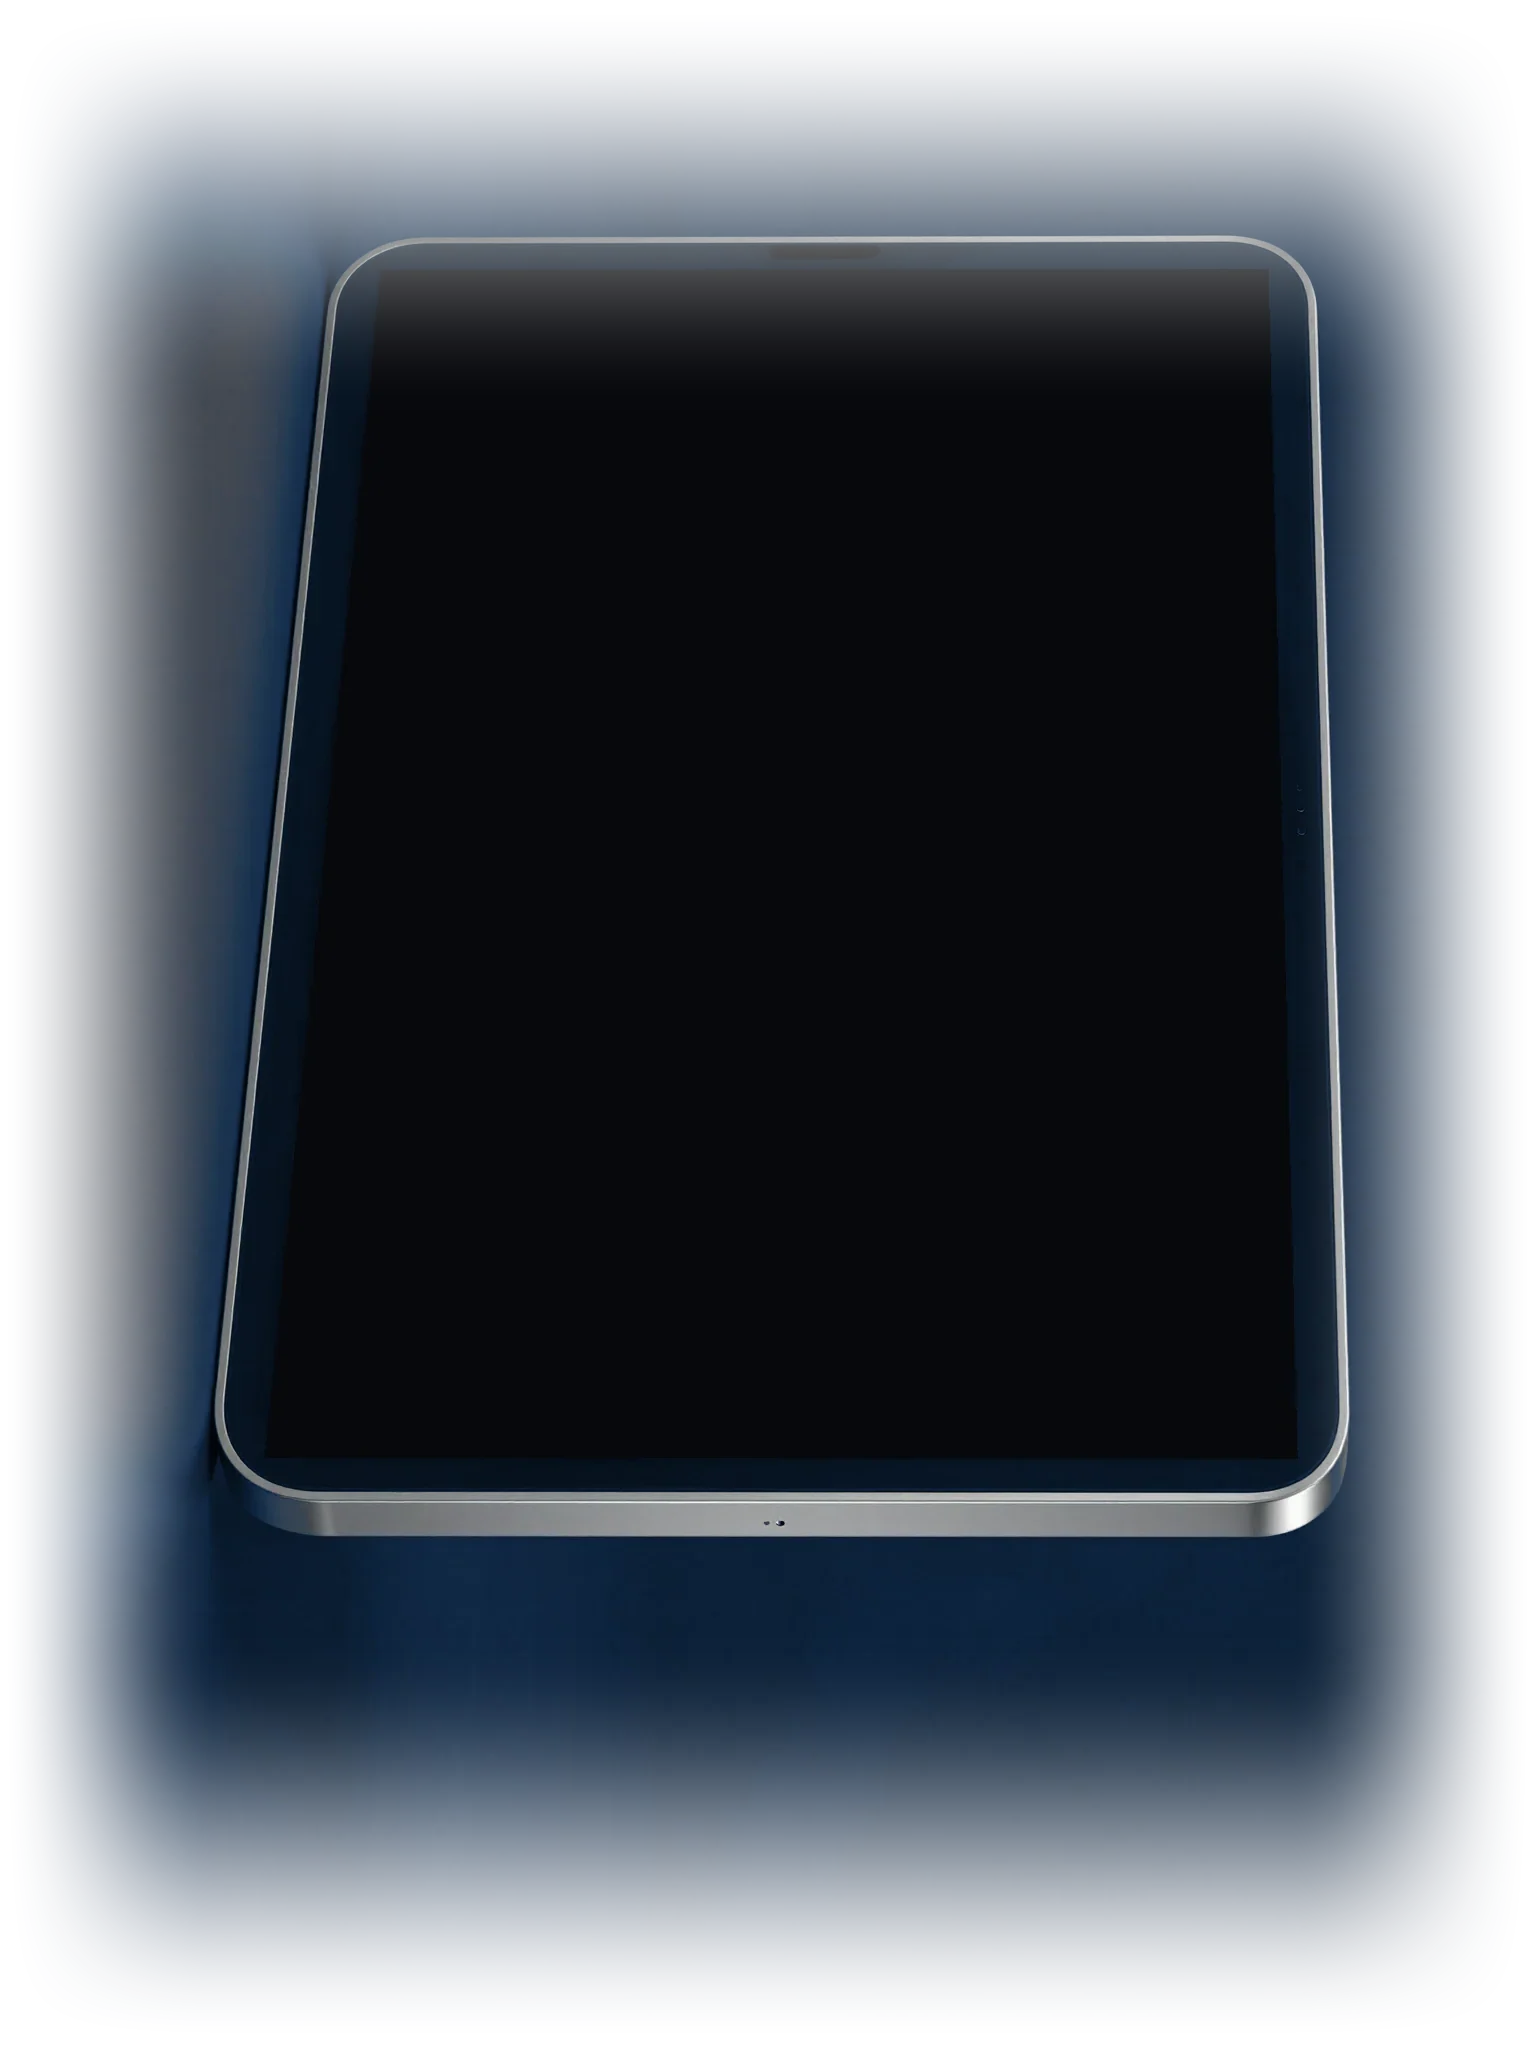
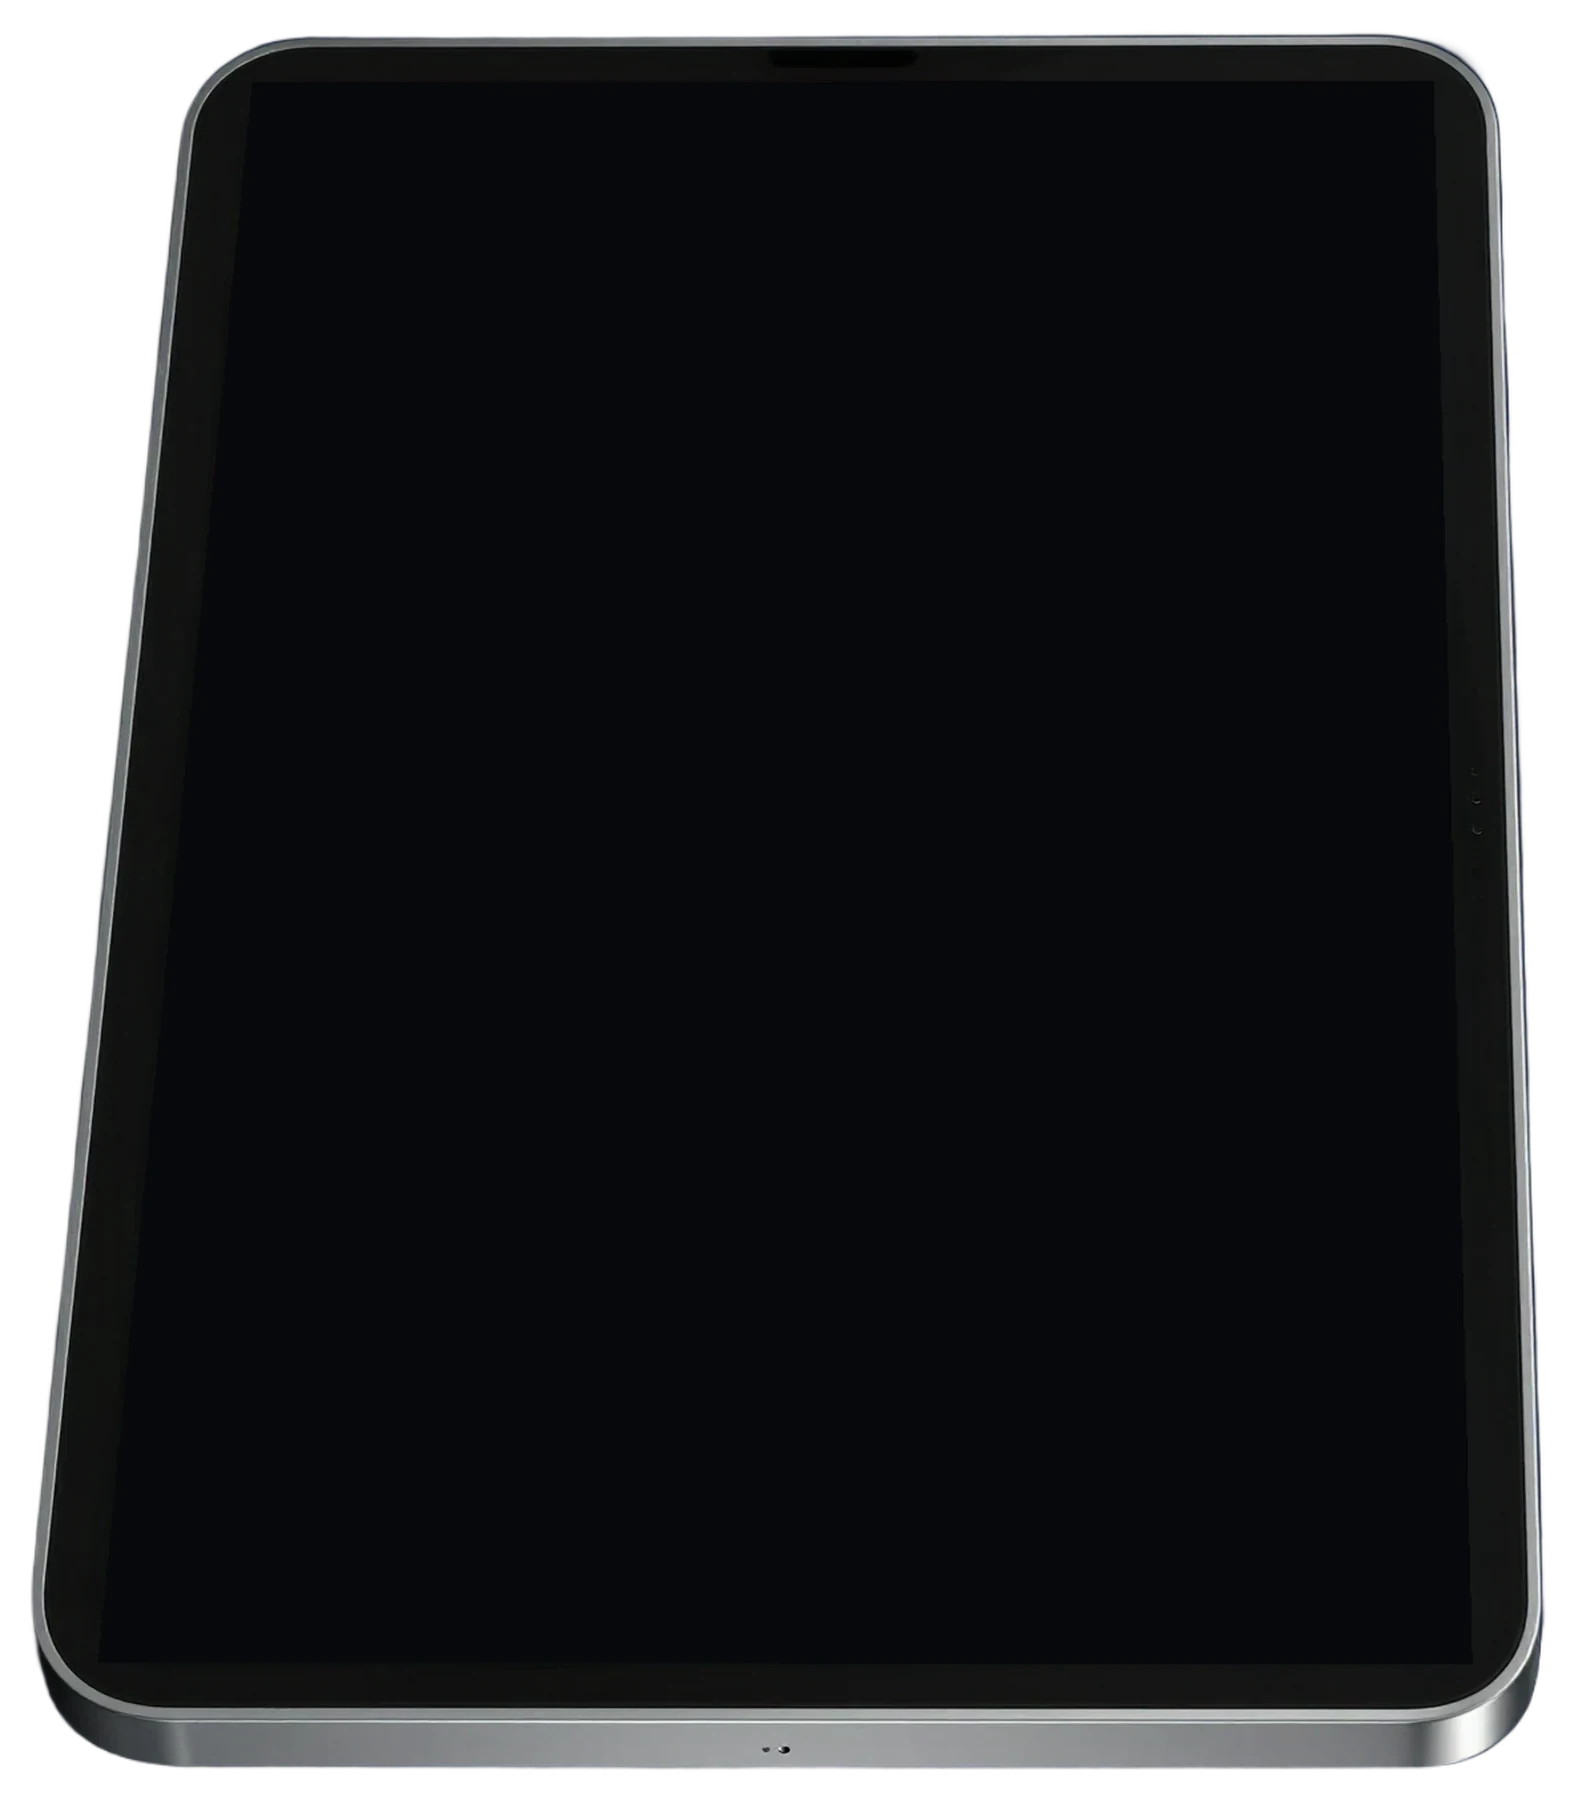
Propuesta: demos sin marco, el aparato se apoya directo en la página
- Notebook e iPad recortados sin fondo (Higgsfield · remove_background):
  funcionan en tema claro y oscuro, con sombra de apoyo.
- El recuadro del demo pierde fondo, borde, brillo y lente; los bordes
  del lienzo se desvanecen para que el acercamiento no deje un corte.
- preparar.py acepta el recorte y entrega tamaño, esquinas y caja.

Claude-Session: https://claude.ai/code/session_01HuUSFPipRjyUHnabTn6mBT

diff --git a/propuesta/index.html b/propuesta/index.html
@@ -2137,7 +2137,8 @@ body:not(.i3-inicio) .i3-vineta{background:radial-gradient(ellipse 58% 70% at 50
 /* Propuesta · aparato fotográfico compartido por los demos (motor de tarjetas y "Ver en acción" del V1).
    El aparato es el del visitante: notebook en computador, tablet en iPad/tablet (horizontal o vertical, según
    cómo la tenga). Fotos de estudio generadas con IA (Higgsfield · Z Image), en propuesta/img/, con la
-   pantalla en negro, sin reflejos verdes, fondo de marca y bordes difuminados (fuente/preparar.py y quad.py).
+   pantalla en negro, sin reflejos verdes y recortadas sin fondo (Higgsfield · remove_background), para que el
+   aparato se apoye directo en la página (fuente/preparar.py y quad.py).
    La pantalla de la foto está en perspectiva: una homografía lleva el plano de la pantalla (x, y en unidades
    del demo) a sus cuatro esquinas en la foto, y así lo que se dibuja en ella queda pegado al vidrio.
    En celular (y en una ventana angosta de computador) no hay aparato: la ventana va de frente y llena el
@@ -2146,12 +2147,12 @@ window.alFoto = (function(){
   // q: esquinas de la pantalla (sup-izq, sup-der, inf-der, inf-izq, px de la foto) · caja: el aparato completo, para encuadrar
   // prop: ancho/alto de la pantalla real · radio: esquinas redondeadas de la pantalla (fracción del ancho)
   var FOTOS = {
-    notebook: { src: 'img/notebook.webp', w: 2048, h: 1536, prop: 1.6, radio: 0.008,
-      q: [[441.5, 394.1], [1438.0, 433.9], [1485.4, 1040.3], [460.0, 1063.1]], caja: [410, 346, 1933, 1280] },
-    tablet: { src: 'img/tablet.webp', w: 2048, h: 1536, prop: 1.43, radio: 0.025,
-      q: [[273.0, 271.5], [1454.6, 242.3], [1453.0, 1266.9], [274.5, 1151.6]], caja: [236, 184, 1536, 1318] },
-    tabletV: { src: 'img/tablet_v.webp', w: 1536, h: 2048, prop: 0.7, radio: 0.035,   // la misma foto, girada
-      q: [[384.4, 274.5], [1264.5, 273.0], [1293.7, 1454.6], [269.1, 1453.0]], caja: [218, 236, 1352, 1536] } };
+    notebook: { src: 'img/notebook.webp', w: 1800, h: 1111, prop: 1.6, radio: 0.008,
+      q: [[61.4, 73.6], [1207.0, 119.5], [1261.3, 816.7], [82.9, 842.5]], caja: [27.6, 27.6, 1772.4, 1083.9] },
+    tablet: { src: 'img/tablet.webp', w: 1800, h: 1578, prop: 1.43, radio: 0.025,
+      q: [[86.5, 149.7], [1658.4, 110.8], [1656.3, 1473.9], [88.5, 1320.5]], caja: [31.9, 31.9, 1768.1, 1545.9] },
+    tabletV: { src: 'img/tablet_v.webp', w: 1578, h: 1800, prop: 0.7, radio: 0.035,   // la misma foto, girada
+      q: [[257.5, 88.5], [1428.3, 86.5], [1467.2, 1658.4], [104.1, 1656.3]], caja: [32.1, 31.9, 1546.1, 1768.1] } };
   // ¿qué aparato tiene el visitante? (iPadOS se presenta como Mac: se distingue por la pantalla táctil)
   function equipo(){
     var tactil = navigator.maxTouchPoints > 0 && window.matchMedia && matchMedia('(pointer: coarse)').matches;
@@ -2227,6 +2228,11 @@ window.alFoto = (function(){
       var l = c.createLinearGradient(0, 0, w, h); l.addColorStop(0, 'rgba(255,255,255,.07)'); l.addColorStop(0.38, 'rgba(255,255,255,0)'); l.addColorStop(0.5, 'rgba(255,255,255,.06)'); l.addColorStop(0.62, 'rgba(255,255,255,0)'); c.fillStyle = l; c.fillRect(0, 0, w, h); })), 0.06, 30);
     var a = W(FOTO.caja[0], FOTO.caja[1]), b = W(FOTO.caja[2], FOTO.caja[3]);
     u.caja = { x: (a[0] + b[0]) / 2, y: (a[1] + b[1]) / 2, w: b[0] - a[0], h: a[1] - b[1] };
+    // sombra de apoyo: el aparato descansa sobre la página
+    var piso = new T.Mesh(new T.PlaneGeometry(u.caja.w * 1.05, u.caja.h * 0.16), new MB({ transparent: true, depthWrite: false, toneMapped: false, map: lienzo(T, 256, 64, function(c, w, h){
+      var r = c.createRadialGradient(w / 2, h / 2, 0, w / 2, h / 2, w / 2); r.addColorStop(0, 'rgba(0,6,16,.55)'); r.addColorStop(0.6, 'rgba(0,6,16,.18)'); r.addColorStop(1, 'rgba(0,6,16,0)');
+      c.setTransform(1, 0, 0, h / w, 0, 0); c.fillStyle = r; c.fillRect(0, 0, w, w); }) }));
+    piso.position.set(u.caja.x, b[1] + u.caja.h * 0.01, -0.03); piso.renderOrder = -2; g.add(piso);
     g.userData = u; g.visible = false; return g;
   }
   // Cámara estilo grabación de pantalla (Screen Studio), de frente a la foto. Tres encuadres, con resortes suaves:
@@ -2415,6 +2421,18 @@ window.alFoto = (function(){
 /* ════ PROPUESTA F: grabación de pantalla pro ═════════════════════════════════════ */
 /* fondo de estudio: degradado de la marca detrás del laptop / teléfono */
 .al-demo__stage{background-color:#0B1F35!important;background-image:radial-gradient(70% 60% at 28% 18%,rgba(76,141,219,.55),transparent 62%),radial-gradient(60% 55% at 86% 92%,rgba(7,140,126,.42),transparent 62%),linear-gradient(140deg,#0B1F35 0%,#133F6C 55%,#0C2B38 100%)!important}
+
+/* ════ PROPUESTA G: sin marco ════════════════════════════════════════════════════ */
+/* el aparato (o la ventana, en celular) se apoya directo en la página: sin fondo, borde, brillo ni lente;
+   los bordes del lienzo se desvanecen para que el acercamiento no deje un corte recto */
+.al-demo__stage{background:none!important;box-shadow:none!important;border-radius:0!important}
+.al-demo__stage::after,.p-lente,.p-barrido{display:none!important}
+.al-demo__stage.p-fin{animation:none}
+.al-demo__stage canvas{
+  -webkit-mask-image:linear-gradient(90deg,transparent,#000 6%,#000 94%,transparent),linear-gradient(180deg,transparent,#000 5%,#000 95%,transparent);
+  -webkit-mask-composite:source-in;
+  mask-image:linear-gradient(90deg,transparent,#000 6%,#000 94%,transparent),linear-gradient(180deg,transparent,#000 5%,#000 95%,transparent);
+  mask-composite:intersect}
 </style>
 </head>
 

diff --git a/propuesta/fuente/foto.js b/propuesta/fuente/foto.js
@@ -1,7 +1,8 @@
 /* Propuesta · aparato fotográfico compartido por los demos (motor de tarjetas y "Ver en acción" del V1).
    El aparato es el del visitante: notebook en computador, tablet en iPad/tablet (horizontal o vertical, según
    cómo la tenga). Fotos de estudio generadas con IA (Higgsfield · Z Image), en propuesta/img/, con la
-   pantalla en negro, sin reflejos verdes, fondo de marca y bordes difuminados (fuente/preparar.py y quad.py).
+   pantalla en negro, sin reflejos verdes y recortadas sin fondo (Higgsfield · remove_background), para que el
+   aparato se apoye directo en la página (fuente/preparar.py y quad.py).
    La pantalla de la foto está en perspectiva: una homografía lleva el plano de la pantalla (x, y en unidades
    del demo) a sus cuatro esquinas en la foto, y así lo que se dibuja en ella queda pegado al vidrio.
    En celular (y en una ventana angosta de computador) no hay aparato: la ventana va de frente y llena el
@@ -10,12 +11,12 @@ window.alFoto = (function(){
   // q: esquinas de la pantalla (sup-izq, sup-der, inf-der, inf-izq, px de la foto) · caja: el aparato completo, para encuadrar
   // prop: ancho/alto de la pantalla real · radio: esquinas redondeadas de la pantalla (fracción del ancho)
   var FOTOS = {
-    notebook: { src: 'img/notebook.webp', w: 2048, h: 1536, prop: 1.6, radio: 0.008,
-      q: [[441.5, 394.1], [1438.0, 433.9], [1485.4, 1040.3], [460.0, 1063.1]], caja: [410, 346, 1933, 1280] },
-    tablet: { src: 'img/tablet.webp', w: 2048, h: 1536, prop: 1.43, radio: 0.025,
-      q: [[273.0, 271.5], [1454.6, 242.3], [1453.0, 1266.9], [274.5, 1151.6]], caja: [236, 184, 1536, 1318] },
-    tabletV: { src: 'img/tablet_v.webp', w: 1536, h: 2048, prop: 0.7, radio: 0.035,   // la misma foto, girada
-      q: [[384.4, 274.5], [1264.5, 273.0], [1293.7, 1454.6], [269.1, 1453.0]], caja: [218, 236, 1352, 1536] } };
+    notebook: { src: 'img/notebook.webp', w: 1800, h: 1111, prop: 1.6, radio: 0.008,
+      q: [[61.4, 73.6], [1207.0, 119.5], [1261.3, 816.7], [82.9, 842.5]], caja: [27.6, 27.6, 1772.4, 1083.9] },
+    tablet: { src: 'img/tablet.webp', w: 1800, h: 1578, prop: 1.43, radio: 0.025,
+      q: [[86.5, 149.7], [1658.4, 110.8], [1656.3, 1473.9], [88.5, 1320.5]], caja: [31.9, 31.9, 1768.1, 1545.9] },
+    tabletV: { src: 'img/tablet_v.webp', w: 1578, h: 1800, prop: 0.7, radio: 0.035,   // la misma foto, girada
+      q: [[257.5, 88.5], [1428.3, 86.5], [1467.2, 1658.4], [104.1, 1656.3]], caja: [32.1, 31.9, 1546.1, 1768.1] } };
   // ¿qué aparato tiene el visitante? (iPadOS se presenta como Mac: se distingue por la pantalla táctil)
   function equipo(){
     var tactil = navigator.maxTouchPoints > 0 && window.matchMedia && matchMedia('(pointer: coarse)').matches;
@@ -91,6 +92,11 @@ window.alFoto = (function(){
       var l = c.createLinearGradient(0, 0, w, h); l.addColorStop(0, 'rgba(255,255,255,.07)'); l.addColorStop(0.38, 'rgba(255,255,255,0)'); l.addColorStop(0.5, 'rgba(255,255,255,.06)'); l.addColorStop(0.62, 'rgba(255,255,255,0)'); c.fillStyle = l; c.fillRect(0, 0, w, h); })), 0.06, 30);
     var a = W(FOTO.caja[0], FOTO.caja[1]), b = W(FOTO.caja[2], FOTO.caja[3]);
     u.caja = { x: (a[0] + b[0]) / 2, y: (a[1] + b[1]) / 2, w: b[0] - a[0], h: a[1] - b[1] };
+    // sombra de apoyo: el aparato descansa sobre la página
+    var piso = new T.Mesh(new T.PlaneGeometry(u.caja.w * 1.05, u.caja.h * 0.16), new MB({ transparent: true, depthWrite: false, toneMapped: false, map: lienzo(T, 256, 64, function(c, w, h){
+      var r = c.createRadialGradient(w / 2, h / 2, 0, w / 2, h / 2, w / 2); r.addColorStop(0, 'rgba(0,6,16,.55)'); r.addColorStop(0.6, 'rgba(0,6,16,.18)'); r.addColorStop(1, 'rgba(0,6,16,0)');
+      c.setTransform(1, 0, 0, h / w, 0, 0); c.fillStyle = r; c.fillRect(0, 0, w, w); }) }));
+    piso.position.set(u.caja.x, b[1] + u.caja.h * 0.01, -0.03); piso.renderOrder = -2; g.add(piso);
     g.userData = u; g.visible = false; return g;
   }
   // Cámara estilo grabación de pantalla (Screen Studio), de frente a la foto. Tres encuadres, con resortes suaves:

diff --git a/propuesta/fuente/capa.html b/propuesta/fuente/capa.html
@@ -159,4 +159,16 @@
 /* ════ PROPUESTA F: grabación de pantalla pro ═════════════════════════════════════ */
 /* fondo de estudio: degradado de la marca detrás del laptop / teléfono */
 .al-demo__stage{background-color:#0B1F35!important;background-image:radial-gradient(70% 60% at 28% 18%,rgba(76,141,219,.55),transparent 62%),radial-gradient(60% 55% at 86% 92%,rgba(7,140,126,.42),transparent 62%),linear-gradient(140deg,#0B1F35 0%,#133F6C 55%,#0C2B38 100%)!important}
+
+/* ════ PROPUESTA G: sin marco ════════════════════════════════════════════════════ */
+/* el aparato (o la ventana, en celular) se apoya directo en la página: sin fondo, borde, brillo ni lente;
+   los bordes del lienzo se desvanecen para que el acercamiento no deje un corte recto */
+.al-demo__stage{background:none!important;box-shadow:none!important;border-radius:0!important}
+.al-demo__stage::after,.p-lente,.p-barrido{display:none!important}
+.al-demo__stage.p-fin{animation:none}
+.al-demo__stage canvas{
+  -webkit-mask-image:linear-gradient(90deg,transparent,#000 6%,#000 94%,transparent),linear-gradient(180deg,transparent,#000 5%,#000 95%,transparent);
+  -webkit-mask-composite:source-in;
+  mask-image:linear-gradient(90deg,transparent,#000 6%,#000 94%,transparent),linear-gradient(180deg,transparent,#000 5%,#000 95%,transparent);
+  mask-composite:intersect}
 </style>

diff --git a/propuesta/fuente/preparar.py b/propuesta/fuente/preparar.py
@@ -1,30 +1,47 @@
-# Prepara una foto IA para la propuesta (uso: python3 -I preparar.py foto.png salida.webp ancho '{esquinas de quad.py}'):
+# Prepara una foto IA para la propuesta.
+# uso: python3 -I preparar.py foto.png salida.webp ancho '{esquinas de quad.py}' [recorte.png]
+# Con recorte (la misma foto sin fondo, de Higgsfield · remove_background) el aparato queda suelto, con
+# transparencia, para apoyarse directo sobre la página; sin él, el fondo pasa al azul de marca y los
+# bordes se difuminan. Imprime lo que va en FOTOS (fuente/foto.js): tamaño, esquinas y caja.
 import sys, json, numpy as np
 from PIL import Image, ImageDraw, ImageFilter
 src, out, ancho = sys.argv[1], sys.argv[2], int(sys.argv[3])
-Q = json.loads(sys.argv[4])
+Q = json.loads(sys.argv[4]); rec = sys.argv[5] if len(sys.argv) > 5 else None
 im = Image.open(src).convert('RGB'); W, H = im.size
 a = np.asarray(im).astype(np.float32)
 r, g, b = a[...,0], a[...,1], a[...,2]
-# 1 · reflejos verdes (teclado, trackpad, piso): el verde no pasa del mayor entre rojo y azul
+# 1 · reflejos verdes (teclado, trackpad, piso): se pasan a gris
 lum = 0.3 * r + 0.59 * g + 0.11 * b
 t = np.clip((g - r - 10) / 25, 0, 1)[..., None]          # cuánto tinte verde/turquesa tiene
 neutro = np.dstack([lum * 0.95, lum * 0.98, lum * 1.06])
 a = a * (1 - t) + neutro * t
-# fondo oscuro de la foto → azul de marca (el aluminio, claro, no se toca)
-r, g, b = a[...,0], a[...,1], a[...,2]; lum = 0.3 * r + 0.59 * g + 0.11 * b
-d = np.clip((75 - lum) / 45, 0, 1)[..., None]
-azul = np.dstack([lum * 0.42, lum * 1.15, lum * 2.0])
-a = a * (1 - d) + azul * d
-# 2 · la pantalla queda negra (encima va el escritorio del demo)
+# 2 · la pantalla queda negra (encima va lo que muestra el demo)
 mk = Image.new('L', (W, H), 0); ImageDraw.Draw(mk).polygon([tuple(Q[k]) for k in ('TL','TR','BR','BL')], fill=255)
 mk = mk.filter(ImageFilter.MaxFilter(9)); m = np.asarray(mk)[..., None] / 255.0
+if rec:
+    al = np.asarray(Image.open(rec).convert('RGBA'))[..., 3].astype(np.float32) / 255
+    al = np.maximum(al, m[..., 0])                        # la pantalla, siempre opaca
+else:
+    # fondo oscuro de la foto → azul de marca (el aluminio, claro, no se toca)
+    r, g, b = a[...,0], a[...,1], a[...,2]; lum = 0.3 * r + 0.59 * g + 0.11 * b
+    d = np.clip((75 - lum) / 45, 0, 1)[..., None]
+    a = a * (1 - d) + np.dstack([lum * 0.42, lum * 1.15, lum * 2.0]) * d
+    # bordes que se funden con el fondo de la página
+    yy, xx = np.mgrid[0:H, 0:W]; u, v = xx / (W - 1), yy / (H - 1)
+    ss = lambda e0, e1, x: np.clip((x - e0) / (e1 - e0), 0, 1) ** 2 * (3 - 2 * np.clip((x - e0) / (e1 - e0), 0, 1))
+    al = ss(0, .2, u) * ss(0, .2, 1 - u) * ss(0, .16, v) * ss(0, .14, 1 - v)
 a = a * (1 - m) + np.array([6, 8, 11], np.float32) * m
-# 3 · bordes que se funden con el fondo de la página
-yy, xx = np.mgrid[0:H, 0:W]; u, v = xx / (W - 1), yy / (H - 1)
-ss = lambda e0, e1, x: np.clip((x - e0) / (e1 - e0), 0, 1) ** 2 * (3 - 2 * np.clip((x - e0) / (e1 - e0), 0, 1))
-al = ss(0, .2, u) * ss(0, .2, 1 - u) * ss(0, .16, v) * ss(0, .14, 1 - v)
 rgba = np.dstack([np.clip(a, 0, 255), al * 255]).astype(np.uint8)
-o = Image.fromarray(rgba, 'RGBA'); o = o.resize((ancho, round(H * ancho / W)), Image.LANCZOS)
-o.save(out, 'WEBP', quality=86, method=6)
-k = ancho / W; print(json.dumps({q: [round(p[0] * k, 1), round(p[1] * k, 1)] for q, p in Q.items()}), o.size)
+o = Image.fromarray(rgba, 'RGBA')
+x0, y0 = 0, 0
+if rec:   # recorta al aparato, con un margen
+    ys, xs = np.nonzero(al > 0.04); p = 24
+    x0, y0, x1, y1 = max(0, xs.min() - p), max(0, ys.min() - p), min(W, xs.max() + p), min(H, ys.max() + p)
+    o = o.crop((x0, y0, x1, y1)); caja = [p, p, x1 - x0 - p, y1 - y0 - p]
+else:
+    caja = None
+k = ancho / o.size[0]; o = o.resize((ancho, round(o.size[1] * k)), Image.LANCZOS)
+o.save(out, 'WEBP', quality=88, method=6)
+f = lambda v: round(v, 1)
+print(json.dumps({ 'w': o.size[0], 'h': o.size[1], 'q': [[f((Q[c][0] - x0) * k), f((Q[c][1] - y0) * k)] for c in ('TL', 'TR', 'BR', 'BL')],
+                   'caja': [f(v * k) for v in caja] if caja else None }))
